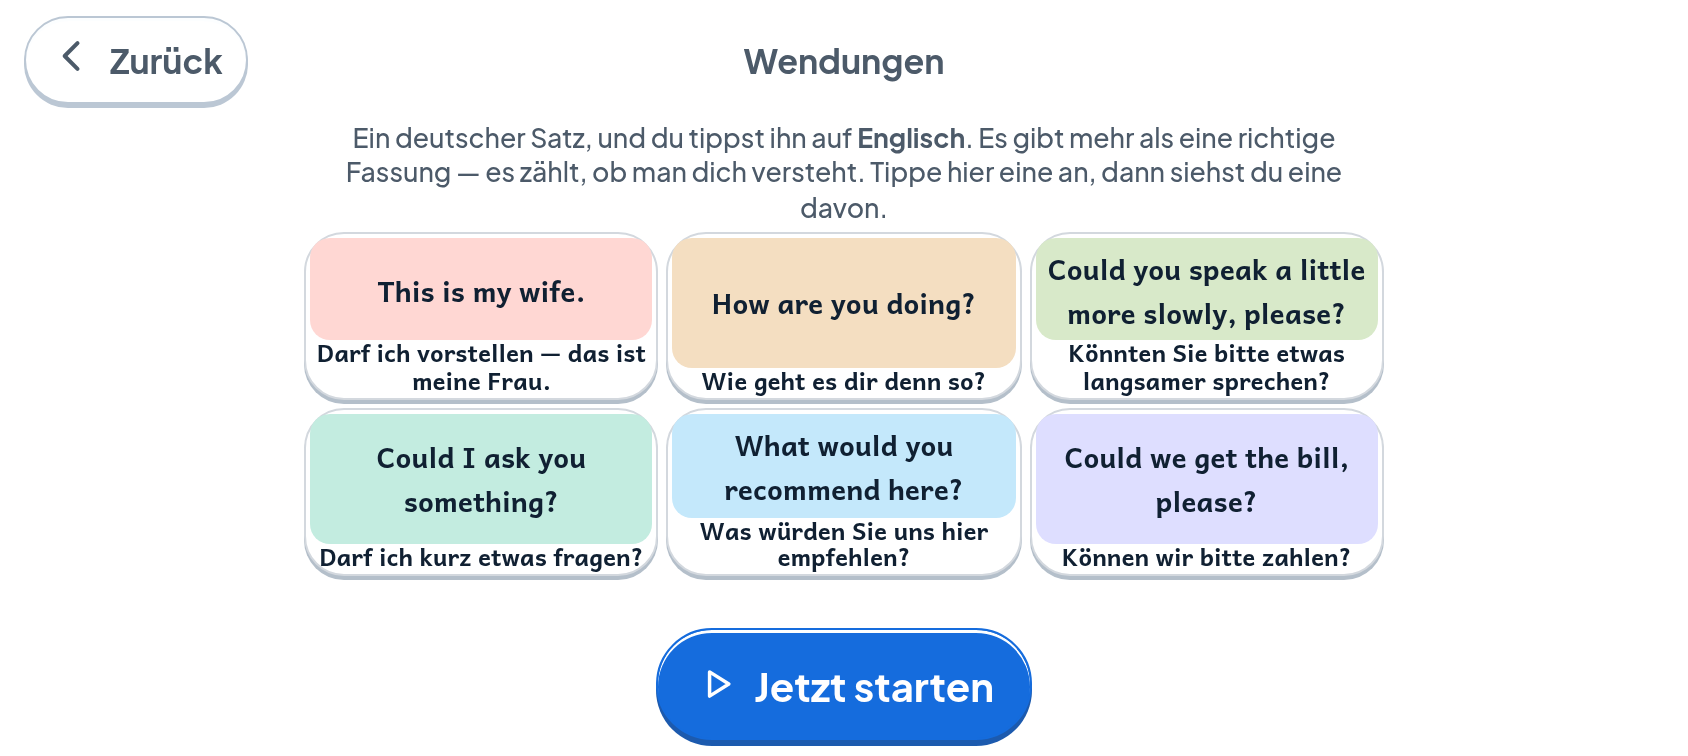
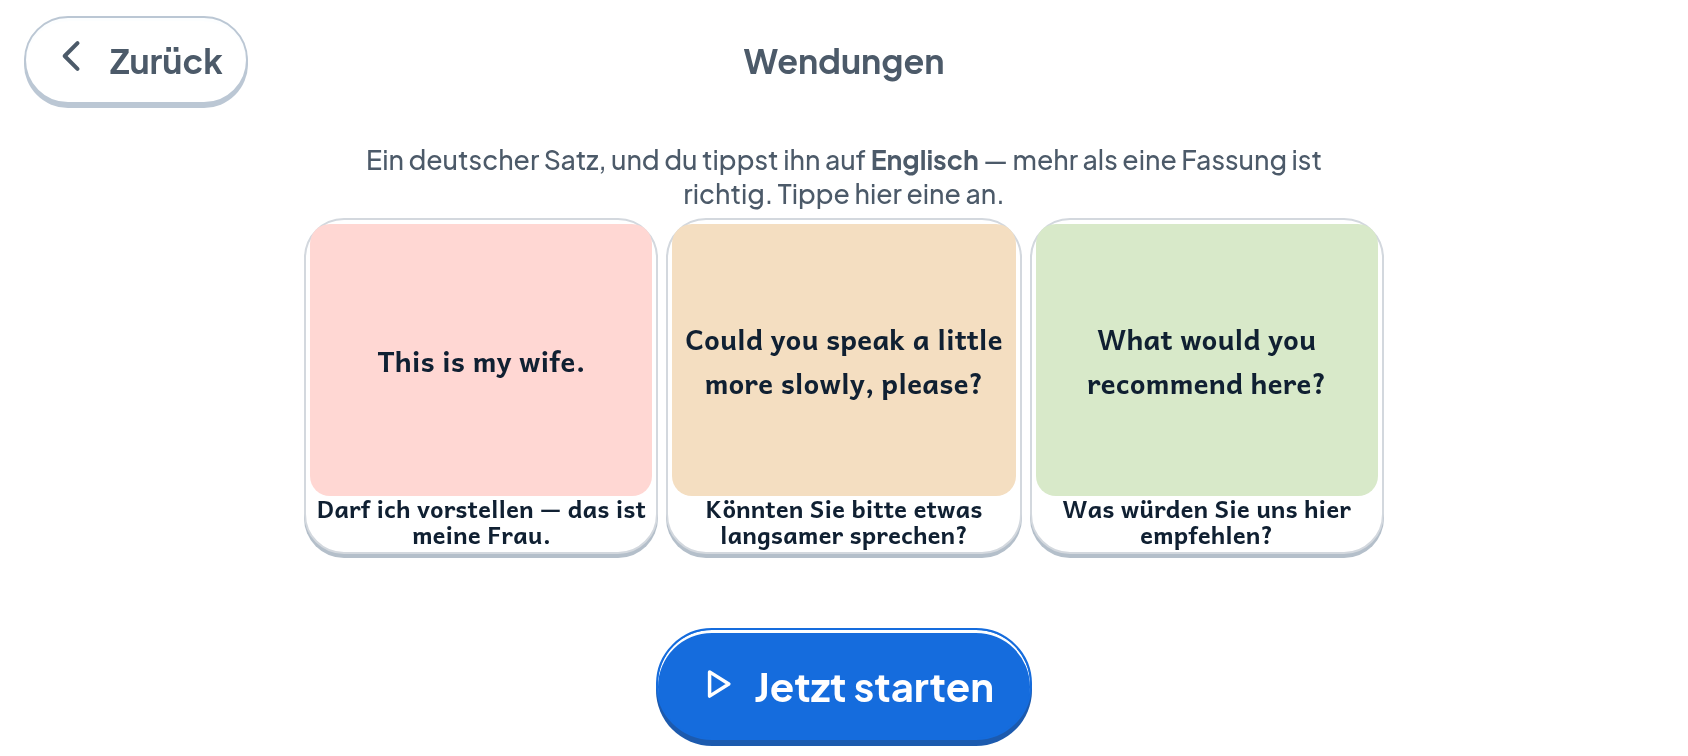
Der Vorlauf der Satzebenen: eine Reihe statt zwei
Der Runner hat gefunden, was hier gruen war: „Could I ask you something?"
lief auf dem Zielgeraet 19 Punkte ueber den Rand von `.rollen`, und ein
Wort lag zu 17 Prozent auf „Jetzt starten". Derselbe Browser in derselben
Fassung (Regel 16), andere Schriftmasse - und sechs Satzkacheln in zwei
Reihen waren um Haaresbreite zu knapp bemessen.

Nicht ein paar Punkte abgeschabt, sondern die Reihe weg: `vorlaufGitter`
legt bis zu drei Karten in EINE Reihe, also zeigt der Vorlauf der beiden
Satzebenen jetzt drei Beispiele. Dazu der Vorlaufsatz der Wendungen von
drei auf zwei Zeilen - er steht ueber den Kacheln und nimmt ihnen die
Hoehe weg.

Gemessen nach der Aenderung, Luft zwischen den Kacheln und dem Rand:
21 Punkte auf dem iPhone SE quer, 29 auf dem iPhone quer, und 29 bis 37
Punkte bis zum Startknopf. Vorher entschied sich das im einstelligen
Bereich, und darum konnte derselbe Bildschirm hier passen und dort nicht.

Claude-Session: https://claude.ai/code/session_01GwecUQxeRqJxKHLkGsVrjv

Changed region(s): [[0.1848, 0.1521, 0.8318, 0.791], [0.2156, 0.3651, 0.3389, 0.3955]]

diff --git a/prototyp/spiel.js b/prototyp/spiel.js
@@ -2613,20 +2613,28 @@ const vorlaufSchluessel = (ebeneId) => `${P.id}:${ebeneId}`;
  *              hat es `passt` - die dreissig Aufkleber liefen auf dem
  *              Zielgeraet acht Punkte ueber den Rand, bei zehn Spalten
  *              und drei Reihen. Zwoelf stehen in zwei Reihen.
- *   SECHS      Wendungen und Hoeren. Hier steht ein ganzer SATZ auf der
+ *   DREI       Wendungen und Hoeren. Hier steht ein ganzer SATZ auf der
  *              Kachel, und zwar zweimal - englisch und deutsch. Eine
  *              solche Kachel ist drei Zeilen hoch statt einer, und damit
  *              gilt die Rechnung aus `vorlaufGitter` nicht mehr: sie
- *              rechnet mit 41 Punkten je Reihe. Gemessen auf 844 x 390
- *              lag die zweite Reihe unter dem Startknopf, mit zwoelf
- *              Beispielen genauso wie mit zwanzig. Eine Reihe zu sechs
- *              ist 140 Punkte breit, drei Zeilen hoch und passt.
+ *              rechnet mit 41 Punkten je Reihe. Mit zwanzig wie mit
+ *              zwoelf Beispielen lag die zweite Reihe unter dem
+ *              Startknopf.
+ *
+ *              Erst sechs, und das war um Haaresbreite zu knapp: HIER
+ *              gruen, auf dem Runner 19 Punkte darueber, und ein Wort
+ *              lag zu 17 Prozent auf „Jetzt starten". Derselbe Browser,
+ *              andere Schriftmasse - also EINE Reihe statt zwei
+ *              (`vorlaufGitter` legt bis drei Karten in eine), und der
+ *              Streit um Zeilenumbrueche ist damit keiner mehr.
+ *              Drei Beispiele zeigen, wie die Aufgabe aussieht; das ist
+ *              die ganze Aufgabe des Vorlaufs.
  *
  * Und warum ueberhaupt gekuerzt wird, steht darueber: der Vorlauf zeigt
  * Beispiele, nicht den Vorrat. */
 const VORLAUF_JE = (art) =>
     ['rechnen', 'freunde'].includes(art) ? P.sitzung
-  : ['wendungen', 'hoersatz'].includes(art) ? 6
+  : ['wendungen', 'hoersatz'].includes(art) ? 3
   : null;
 function vorlaufVorrat(ebeneId){
   const alle = vorrat(ebeneId);
@@ -2696,9 +2704,12 @@ function vorlaufSatz(ebeneId){
     return 'Das sind die Buchstaben, die du schreiben lernst. Tippe einen an, '
       + 'dann sage ich dir, wie er heißt.';
   if (art === 'wendungen')
-    return 'Ein deutscher Satz, und du tippst ihn auf <strong>Englisch</strong>. '
-      + 'Es gibt mehr als eine richtige Fassung — es zählt, ob man dich versteht. '
-      + 'Tippe hier eine an, dann siehst du eine davon.';
+    /* Zwei Zeilen und nicht drei: der Satz steht ueber den Beispielen
+       und nimmt ihnen die Hoehe weg. Der erste Anlauf war drei Zeilen
+       lang, und zusammen mit den Satzkacheln lief der Vorlauf auf dem
+       Runner ueber den Rand. */
+    return 'Ein deutscher Satz, und du tippst ihn auf <strong>Englisch</strong> — '
+      + 'mehr als eine Fassung ist richtig. Tippe hier eine an.';
   if (art === 'hoersatz')
     return englischHoerbar()
       ? 'Ich sage einen englischen Satz — <strong>einmal, in normalem Tempo</strong>. '
